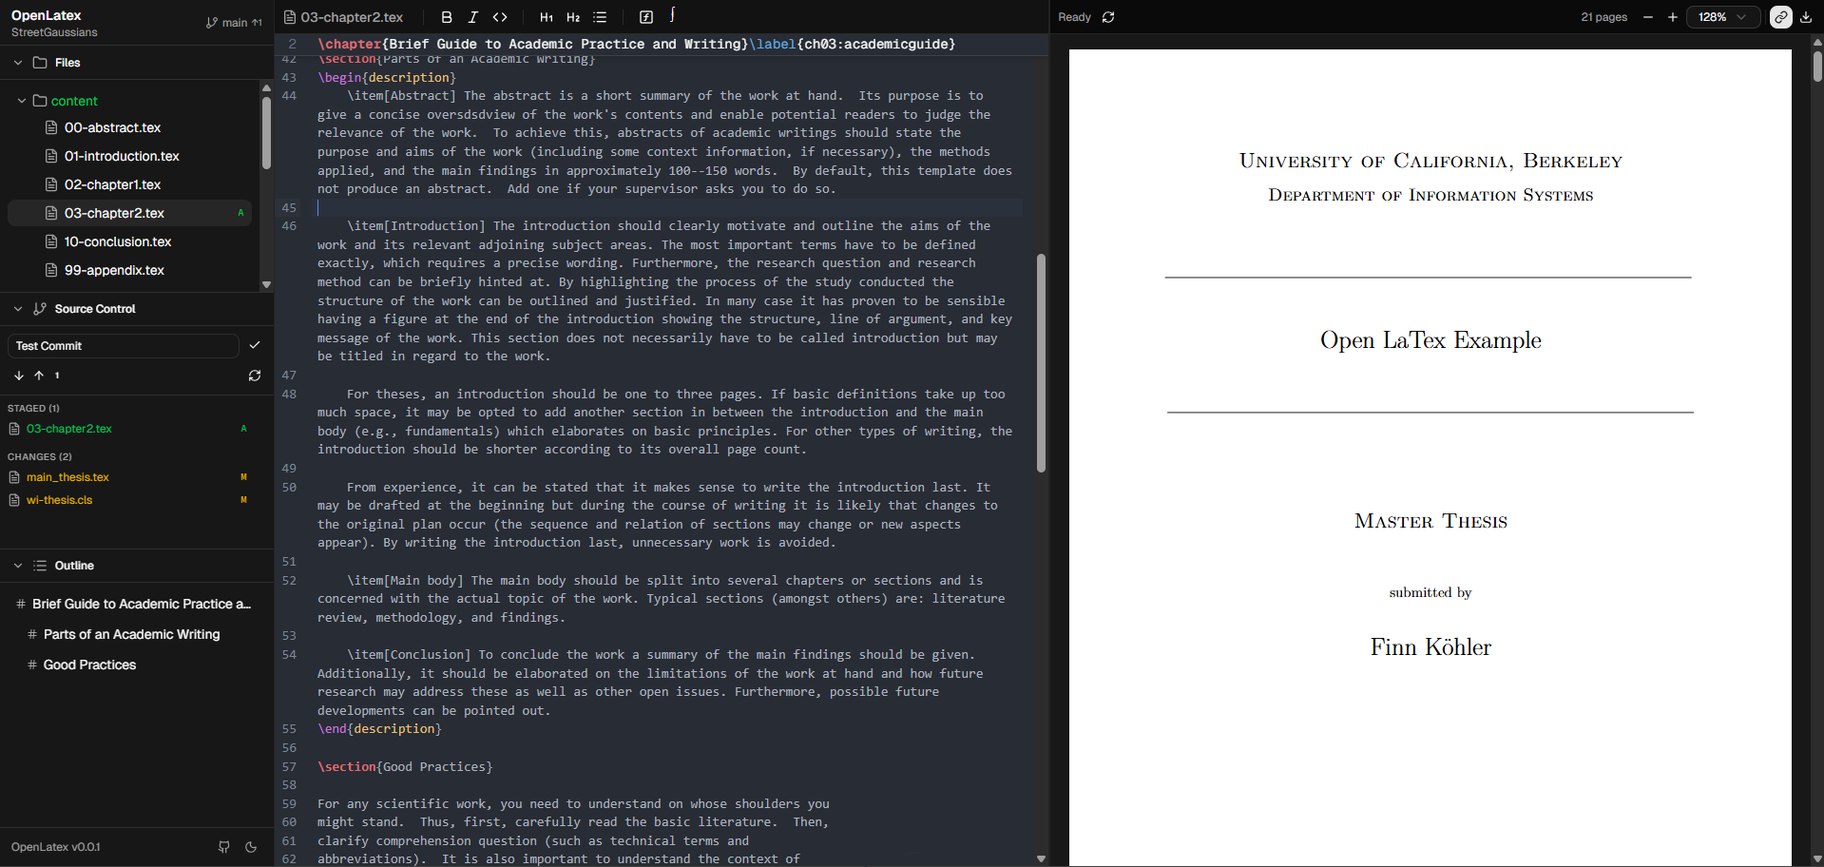
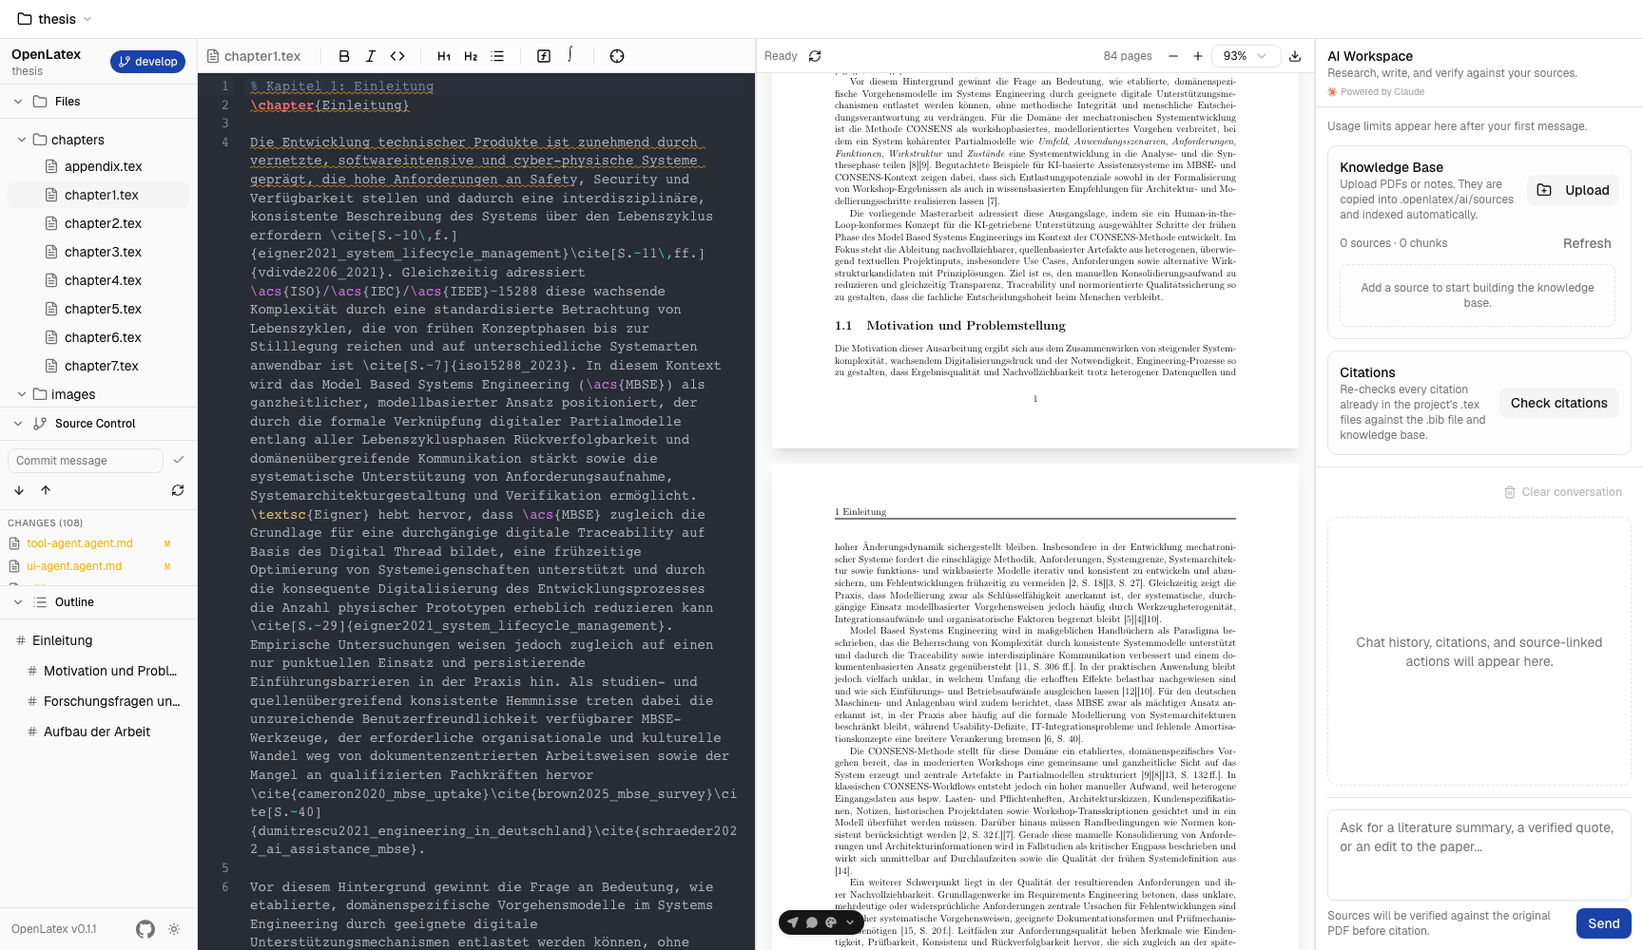
Bring docs up to date with the AI assistant, SyncTeX, and GitHub integration
The README and CONTRIBUTING guide still described the project as it looked
before the AI/RAG system, SyncTeX, GitHub integration, and colored Git UI
were built — several claims (e.g. a manual test checklist file, a
four-store Zustand layout) were no longer true, and the hero screenshot
predated the AI panel entirely. Also swaps in a real screenshot of a
loaded thesis project and replaces apps/web/README.md's leftover
pre-fork "Open Prism" stub.

diff --git a/README.md b/README.md
@@ -1,6 +1,6 @@
 # OpenLaTex
 
-Local, filesystem-backed LaTeX editor with live preview. Edit `.tex` projects on disk, auto-reload when external tools change files, and preview compiled PDFs — all in the browser.
+Local, filesystem-backed LaTeX editor with live preview and a built-in AI research assistant. Edit `.tex` projects on disk, auto-reload when external tools change files, preview compiled PDFs, and search/cite a knowledge base of your own PDFs — all in the browser.
 
 ![OpenLaTex Screenshot](./assets/OpenLatex.png)
 
@@ -9,6 +9,8 @@ Local, filesystem-backed LaTeX editor with live preview. Edit `.tex` projects on
 I wanted a proper LaTeX editor that runs **locally** — no Overleaf, no cloud dependency, full control over my files. The key idea: because the editor works directly on the filesystem with live file watchers, you can use an LLM in VS Code (Copilot, Claude, etc.) to proofread or edit your `.tex` files and see the changes reload instantly in the editor and PDF preview. Meanwhile you can also use the LaTex editor and write your paper directly in the WebUI and it will sync with disk automatically. It turns your local dev environment into a LaTeX writing workflow where AI tools, version control, and the editor all work together seamlessly.
 
 Git integration is built in so you can use the same version control workflow you already know — branch, commit, push, pull — making it straightforward to collaborate on research papers with other researchers, all without leaving your local setup.
+
+On top of that, an AI research assistant (Claude, via the Claude Agent SDK) lives in a fourth panel: it can search a knowledge base built from your own uploaded PDFs, verify every quote against the actual source page before citing it, and write directly into your `.tex` files — with a hard guarantee that it never fabricates a citation.
 
 ## Background
 
@@ -21,7 +23,7 @@ The fork completely rearchitected the project into a **local-first, filesystem-b
 - **Browser storage** — IndexedDB document store replaced with real filesystem operations
 - **Cloud dependencies** — No API keys, no hosted services, no deployment concerns
 
-### What was added
+### What was added (initial rearchitecture)
 - **Filesystem layer** — Chokidar file watcher with SSE streaming, sandboxed path resolution, echo suppression for write-through edits
 - **Disk-backed editing** — Every keystroke debounce-writes to disk (300ms); every external file change auto-reloads the editor buffer with cursor preservation
 - **Git integration** — Branch indicator, file status colors (VS Code-style), Source Control panel with stage/unstage/commit/pull/push
@@ -31,6 +33,9 @@ The fork completely rearchitected the project into a **local-first, filesystem-b
 - **Cached PDF** on startup — skips recompilation if the cached PDF is newer than all source files
 - **Compile-from-disk** — The compile route reads source files from the project directory instead of receiving them from the browser
 - **Security hardening** — Path sandboxing (`resolveInProject`), `execFile` instead of `exec` for Git commands, `.openlatex/` build directory with auto-generated `.gitignore`
+
+### What was added since (AI, reintroduced from scratch)
+AI came back later as a genuinely different feature, not a restoration of what was removed: a local knowledge base built from your own uploaded sources, verified against those sources rather than the model's own memory, running on the Claude Agent SDK instead of the original OpenAI/assistant-ui stack. See **AI Research Assistant** under Features below for the full picture — knowledge base search, citation verification, SyncTeX-style click-to-jump between source and PDF, GitHub sign-in/publish, and a colored Git UI all landed after the initial rearchitecture.
 
 ### What was kept
 - **CodeMirror 6 editor** with LaTeX syntax highlighting and one-dark theme
@@ -52,18 +57,32 @@ The fork completely rearchitected the project into a **local-first, filesystem-b
 - **Live auto-compile** — PDF rebuilds automatically when any source file changes (500ms debounce)
 - **Zoom controls** — 50% to 400% scale, plus increment/decrement buttons
 - **Scroll sync** — Table of Contents clicks scroll the PDF to the matching page via outline map
+- **SyncTeX** — Double-click a spot in the compiled PDF to jump to that exact line in the source; the reverse (source → PDF highlight) is wired up too, with SyncTeX data registered and cached per build
 - **Compile error log** — Collapsible build output panel shows `pdflatex` errors; previous PDF stays visible
 - **Download** — One-click PDF download from the toolbar
 - **Cached PDF** — On startup, loads the last-compiled PDF instantly if it's still fresh
 
+### AI Research Assistant
+A fourth panel powered by Claude (Claude Agent SDK), scoped entirely to your project directory — no cloud document store, everything lives in `.openlatex/ai/`.
+
+- **One continuing conversation per project** — no conversation picker to manage; it just resumes, across page reloads and app restarts, via a persistent Claude Agent SDK session. "Clear conversation" starts a genuinely fresh one when you want it.
+- **Knowledge base** — Upload PDFs, Markdown, or plain text. Each source is chunked, embedded locally (`@huggingface/transformers`, no external embedding API), and combined with a hand-rolled BM25 index for hybrid semantic + keyword search.
+- **Verified metadata, never invented** — Title/author/year are resolved in order of trust: a real match against the [CrossRef](https://www.crossref.org/) bibliographic database, then the PDF's own embedded metadata, then a page-layout heuristic (font size, byline position) — and every field is tagged with exactly how confident that source is, down to the individual field. A heuristic guess can never silently become part of a citation. Metadata can also be corrected by hand from the source list.
+- **Citation safety** — Every claim the assistant makes from a source is checked with `cite()` against the source's actual page text before it's allowed to appear as a citation — including when it writes `\cite[p.~<page>]{key}` directly into your `.tex` file, always with the exact page it just verified.
+- **Citation audit** — A "Check citations" action re-scans every `\cite`/`\citep`/`\citet`/`\parencite`/`\autocite`/`\textcite` already in your `.tex` files and flags anything broken: a missing `.bib` entry, a page beyond the source's real length, a `.bib` entry with no linked source, or a citation missing a page.
+- **Research notes** — The assistant can save its own synthesized understanding back into the knowledge base for later turns to build on — searchable, but never itself citable; every claim still traces back to a fresh `cite()` against a primary source.
+- **Source management** — Search and sort the source list, a "needs review" filter for sources with unverified metadata, multi-select bulk delete, and duplicate-upload detection (exact-hash rejection, near-duplicate-title warning).
+- **Plan usage** — The Current Session (5-hour) and Weekly Limits (7-day) usage cards match the Claude app's own usage view, backed by the Claude Agent SDK's usage API.
+- **No fixed "mode"** — There's no Research/Write/Organize picker; the assistant reads each request and decides whether it's a search, an edit to the `.tex` files, or both.
+
 ### Sidebar
 - **Recursive file tree** — Expandable directories, file icons by type, click to open
 - **Table of Contents** — Parsed from `\part`, `\chapter`, `\section`, `\subsection`, `\subsubsection` in the active file; click to scroll the PDF
-- **Collapsible panels** — Files, Source Control, and Outline panels resize and collapse independently
+- **Collapsible panels** — Files, Source Control, Outline, and AI Workspace panels resize and collapse independently
 
 ### Git Integration
-- **Auto-detection** — Detects if the open project folder is a Git repository on startup
-- **Branch indicator** — Current branch name + ahead/behind badges (`↑2 ↓1`) in the sidebar header
+- **Auto-detection** — Detects if the open project folder is a Git repository on startup; entirely optional — the app works fully without Git, and initializing a repo is an explicit opt-in action
+- **Colored branch indicator** — Current branch name shown as a colored pill (accent color, not plain text), with ahead/behind counts as icon+number badges inside it
 - **File status colors** — VS Code-style decorations in the file tree:
   - Yellow = modified (unstaged), Green = staged, Dark green = untracked, Red = deleted/conflict
   - Single-letter badges: `M`, `A`, `?`, `D`, `C`, `R`
@@ -71,7 +90,14 @@ The fork completely rearchitected the project into a **local-first, filesystem-b
 - **Source Control panel** — Staged Changes, Changes, and Untracked sections with per-file stage/unstage buttons
 - **Commit** — Commit message input with Enter-to-commit
 - **Pull / Push** — One-click buttons (shown when a remote is configured)
+- **Commit history** — A VS Code Timeline-style list of past commits, connected by a colored graph line (same accent as the branch pill); expand a commit to see its changed files and view a diff
 - **Live refresh** — Git status updates on every file change (debounced 1s) and polls every 3s for external git operations (`git reset`, `git stash`, etc.)
+- **GitHub integration** — Sign in via the GitHub CLI (`gh`), publish a local repo straight to a new GitHub repository, and open the current repo on GitHub in one click
+
+### Project Management
+- **Welcome screen** — On first run, browse to an existing project folder or create a brand-new one from scratch (scaffolds a starter `main.tex`)
+- **Project switcher** — Jump between recently-opened projects without restarting the app
+- **Per-project AI workspace** — The knowledge base, conversation, and SyncTeX cache all live under that project's own `.openlatex/` directory, so switching projects switches the whole AI context with it
 
 ### Filesystem Sync
 - **Disk is source of truth** — The editor never holds state that isn't on disk
@@ -81,8 +107,8 @@ The fork completely rearchitected the project into a **local-first, filesystem-b
 - **Reconnect with backoff** — SSE disconnects retry at 1s → 2s → 5s → 5s; tree re-syncs on reconnect
 
 ### General
-- **Dark / Light / System theme** — Cycle with the toggle in the sidebar footer
-- **Resizable panels** — Three-pane layout (sidebar, editor, preview) with drag-to-resize handles
+- **Dark / Light / System theme** — Cycle with the toggle in the sidebar footer, tinted with a single restrained accent color rather than pure grayscale
+- **Resizable panels** — Four-pane layout (sidebar, editor, preview, AI workspace) with drag-to-resize handles
 - **Swap editor ↔ preview** — Hover the divider and click the swap button
 - **Keyboard shortcuts** — `Ctrl+S` compile, `Ctrl+F` find, standard undo/redo
 - **Toast notifications** — Non-intrusive feedback for errors and git actions via Sonner
@@ -103,12 +129,15 @@ cd apps/latex-api && docker build -t latex-api . && docker run -p 3001:3001 late
 # Start the editor (in another terminal)
 pnpm dev:web
 
-# Then open http://localhost:3000 — the welcome screen lets you pick your project folder.
+# Then open http://localhost:3000 — the welcome screen lets you pick an existing
+# project folder or create a new one.
 # (Optional) To bootstrap with an env var instead, copy .env.example and set PROJECT_DIR:
 # cp apps/web/.env.example apps/web/.env.local
 ```
 
-Open [http://localhost:3000](http://localhost:3000). On first run the welcome screen lets you browse to or paste a project folder path — your choice is saved to `~/.openlatex/config.json`. Keep VS Code open on the same project folder — edits in either tool flow to the other via filesystem watching.
+Open [http://localhost:3000](http://localhost:3000). On first run the welcome screen lets you browse to (or create) a project folder — your choice is saved to `~/.openlatex/config.json`. Keep VS Code open on the same project folder — edits in either tool flow to the other via filesystem watching.
+
+The AI panel needs a Claude account authenticated via the Claude Agent SDK (the same auth Claude Code uses) — no separate API key to configure for the editor itself.
 
 ### Environment Variables
 
@@ -123,25 +152,27 @@ Open [http://localhost:3000](http://localhost:3000). On first run the welcome sc
 Browser (Next.js client)
   ├── File Tree ← fs-store (Zustand)
   ├── CodeMirror Editor ← editor-store (Zustand, debounced write-through)
-  ├── PDF Preview ← pdf-store (Zustand)
-  └── Source Control ← git-store (Zustand, polls + event-driven)
+  ├── PDF Preview ← pdf-store (Zustand, SyncTeX highlight/scroll)
+  ├── Source Control ← git-store (Zustand, polls + event-driven)
+  ├── AI Workspace ← ai-store (Zustand, SSE chat stream)
+  └── GitHub account menu ← github-store (Zustand)
         │
         │  fetch() / SSE
         ▼
 Next.js Server (apps/web)
-  ├── /api/fs/list      — Recursive file tree
-  ├── /api/fs/read      — File content (text or base64)
-  ├── /api/fs/write     — Write-through with echo suppression
-  ├── /api/fs/watch     — SSE stream (chokidar)
-  ├── /api/compile      — Gathers sources, proxies to latex-api
-  ├── /api/pdf/cached   — Serves cached PDF if fresh
-  ├── /api/git/info     — Branch, remote, last commit, ahead/behind
-  ├── /api/git/status   — Porcelain file statuses
-  ├── /api/git/stage    — git add
-  ├── /api/git/unstage  — git restore --staged
-  ├── /api/git/commit   — git commit -m
-  ├── /api/git/pull     — git pull
-  └── /api/git/push     — git push
+  ├── /api/fs/*            — List, read, write-through, SSE watch
+  ├── /api/compile         — Gathers sources, proxies to latex-api
+  ├── /api/pdf/cached      — Serves cached PDF if fresh
+  ├── /api/synctex/*       — Register/query SyncTeX mapping for a build
+  ├── /api/git/*           — info, status, stage, unstage, commit, pull, push, log, show
+  ├── /api/gh/*            — GitHub CLI auth status, publish, open-on-GitHub
+  ├── /api/project/*       — current, set, browse, create
+  ├── /api/ai/chat         — SSE chat stream (Claude Agent SDK, persistent session)
+  ├── /api/ai/conversation — Get / clear the project's one conversation
+  ├── /api/ai/sources/*    — Upload, list, edit metadata, bulk-delete knowledge sources
+  ├── /api/ai/search       — Hybrid (semantic + BM25) knowledge-base search
+  ├── /api/ai/citations/*  — Citation audit
+  └── /api/ai/usage        — Claude plan usage (5-hour / weekly limits)
         │
         │  POST /builds/sync
         ▼
@@ -152,8 +183,9 @@ latex-api (apps/latex-api, Hono) — unchanged
 ### Security
 
 - **Path sandboxing** — All filesystem operations validate paths via `resolveInProject()`, rejecting traversal (`..`), absolute paths, null bytes, and symlink escapes
-- **No shell injection** — Git commands use `execFile` (args as array), not `exec`
-- **`.openlatex/` build directory** — Auto-created with `.gitignore` containing `*` so build artifacts stay out of version control
+- **No shell injection** — Git and GitHub CLI commands use `execFile` (args as array), not `exec`
+- **`.openlatex/` build directory** — Auto-created with `.gitignore` containing `*` so build artifacts, the SyncTeX cache, and the AI knowledge base stay out of version control by default
+- **Citation grounding** — The AI agent can only cite a quote it has independently verified against the source's own extracted text; it cannot cite a research note, and a source deleted mid-conversation is explicitly invalidated rather than silently trusted from memory
 
 ## Project Structure
 
@@ -161,17 +193,18 @@ latex-api (apps/latex-api, Hono) — unchanged
 OpenLaTex/
 ├── apps/
 │   ├── web/                    # Next.js 16 frontend + API routes
-│   │   ├── app/api/            # FS, Git, Compile, PDF API routes
-│   │   ├── components/         # UI (sidebar, editor, preview, shadcn/ui)
-│   │   ├── hooks/              # use-fs-startup, use-keyboard-shortcuts
-│   │   ├── lib/fs/             # Sandbox, echo suppression, watcher, clients
-│   │   ├── lib/git/            # Git runner (server), Git client (browser)
-│   │   ├── stores/             # Zustand: fs-store, editor-store, pdf-store, git-store
-│   │   └── styles/             # Tailwind CSS v4
-│   └── latex-api/              # Hono API — spawns pdflatex (unchanged from fork)
-├── docs/                       # Design specs, plans, manual test plan
-├── biome.json                  # Biome linter
-└── turbo.json                  # Turborepo config
+│   │   ├── app/api/            # FS, Git, GitHub, Compile, PDF, SyncTeX, Project, AI routes
+│   │   ├── components/         # UI (sidebar, editor, preview, ai, shadcn/ui)
+│   │   ├── hooks/               # use-fs-startup, use-keyboard-shortcuts, use-current-project
+│   │   ├── lib/fs/              # Sandbox, echo suppression, watcher, clients
+│   │   ├── lib/git/             # Git runner (server), Git client (browser)
+│   │   ├── lib/ai/              # Knowledge base, CrossRef lookup, citation audit, chat agent
+│   │   ├── stores/              # Zustand: fs, editor, pdf, git, ai, github
+│   │   └── styles/              # Tailwind CSS v4
+│   └── latex-api/               # Hono API — spawns pdflatex (unchanged from fork)
+├── docs/                        # Design specs and plans
+├── biome.json                   # Biome linter
+└── turbo.json                   # Turborepo config
 ```
 
 ## Tech Stack
@@ -180,10 +213,11 @@ OpenLaTex/
 |-------|-----------|
 | Framework | Next.js 16, React 19 |
 | Editor | CodeMirror 6, codemirror-lang-latex |
-| PDF | react-pdf, pdfjs-dist |
+| PDF | react-pdf, pdfjs-dist (also used for SyncTeX page/position mapping) |
 | State | Zustand 5 |
 | UI | shadcn/ui (Radix UI), Tailwind CSS v4, Lucide icons |
 | File watching | chokidar 4 |
+| AI | Claude Agent SDK (`@anthropic-ai/claude-agent-sdk`), local embeddings via `@huggingface/transformers`, hand-rolled BM25, CrossRef REST API for metadata verification |
 | Compiler backend | Hono, pdflatex / xelatex / lualatex |
 | Build | Turborepo, pnpm workspaces, TypeScript (strict) |
 | Testing | Vitest |

diff --git a/CONTRIBUTING.md b/CONTRIBUTING.md
@@ -68,10 +68,13 @@ Open [http://localhost:3000](http://localhost:3000).
 apps/web/
 ├── app/api/              # Next.js API routes
 │   ├── fs/               #   File operations (list, read, write, watch SSE)
-│   ├── git/              #   Git operations (info, status, stage, unstage, commit, pull, push)
+│   ├── git/              #   Git operations (info, status, stage, unstage, commit, pull, push, log, show)
+│   ├── gh/               #   GitHub CLI integration (auth status, publish, open-on-GitHub)
 │   ├── compile/          #   LaTeX compilation (reads from disk, proxies to latex-api)
 │   ├── pdf/cached/       #   Serves cached PDF if still fresh
-│   └── project/          #   Project picker API (current, set, browse)
+│   ├── synctex/          #   Register/query SyncTeX mapping for a build
+│   ├── project/          #   Project picker API (current, set, browse, create)
+│   └── ai/               #   Chat (SSE), conversation, sources, search, citations, usage
 ├── components/
 │   ├── ui/               #   shadcn/ui primitives (button, dialog, tooltip, etc.)
 │   ├── project/          #     Welcome screen, directory browser, project switcher
@@ -83,8 +86,9 @@ apps/web/
 ├── lib/
 │   ├── fs/               #   Sandbox, echo suppression, watcher, project-dir, clients
 │   ├── git/              #   Git runner (server-side execFile), Git client (browser fetch)
+│   ├── ai/               #   Knowledge base, CrossRef lookup, citation audit, chat agent
 │   └── project/          #   Config module (~/openlatex/config.json), path utils
-├── stores/               #   Zustand stores: fs, editor, pdf, git
+├── stores/               #   Zustand stores: fs, editor, pdf, git, ai, github
 └── styles/               #   Tailwind CSS v4 globals
 ```
 
@@ -94,7 +98,8 @@ apps/web/
 - **Path sandboxing.** Every filesystem route validates paths via `resolveInProject()` from `lib/fs/sandbox.ts`. Always use it for any new FS route.
 - **Echo suppression.** When the server writes a file, it records the write so the chokidar watcher can drop the resulting event. See `lib/fs/echo-suppression.ts`.
 - **No shell injection.** Git commands use `execFile` (args as array). Never use `exec` or template strings for command construction.
-- **Zustand for state.** Four stores: `fs-store` (file tree), `editor-store` (active file + buffer), `pdf-store` (PDF bytes + compile status), `git-store` (branch, statuses, actions).
+- **Zustand for state.** Six stores: `fs-store` (file tree), `editor-store` (active file + buffer), `pdf-store` (PDF bytes + compile status), `git-store` (branch, statuses, actions), `ai-store` (conversation, sources, plan usage), `github-store` (auth state).
+- **Citations are never trusted from memory.** The AI agent's `cite()` tool re-verifies every quote against a source's actual extracted text at the moment of citing — never from what the model recalls saying earlier. Keep this true for any new AI tool that touches citations.
 
 ### Testing
 
@@ -107,8 +112,12 @@ pnpm test:watch    # Watch mode
 Unit tests cover the security-critical modules:
 - `lib/fs/sandbox.test.ts` — Path resolution and traversal rejection
 - `lib/fs/echo-suppression.test.ts` — Write-echo tracking with fake timers
+- `lib/ai/knowledge-base.test.ts` — Chunking, embedding search, citation verification
+- `lib/ai/crossref.test.ts` — Bibliographic metadata lookup and trust ordering
+- `lib/ai/citation-audit.test.ts` — Detecting broken/missing/unlinked citations
 
-A manual test checklist lives at `docs/manual-test-plan.md`.
+There's no standing manual test checklist file — UI/functional changes are
+verified live against a running instance as part of development instead.
 
 ## Code Style
 

diff --git a/apps/web/README.md b/apps/web/README.md
@@ -1,1 +1,31 @@
-# Open Prism
+# OpenLaTex Web
+
+The Next.js 16 frontend and API routes for OpenLaTex — the editor, PDF preview, AI research assistant, and Git UI. See the [root README](../../README.md) for the full feature list, architecture diagram, and quick start, and [CONTRIBUTING.md](../../CONTRIBUTING.md) for local development setup.
+
+## Local Development
+
+```bash
+# From the workspace root
+pnpm install
+pnpm dev:web
+```
+
+Requires the `latex-api` service running for compilation (see [apps/latex-api](../latex-api)).
+
+## Structure
+
+```
+app/api/     # File, Git, GitHub, Compile, PDF, SyncTeX, Project, and AI routes
+components/  # UI: sidebar, editor, preview, AI panel, shadcn/ui primitives
+hooks/       # use-fs-startup, use-keyboard-shortcuts, use-current-project
+lib/         # fs (sandbox/watcher), git, ai (knowledge base, agent), project
+stores/      # Zustand: fs, editor, pdf, git, ai, github
+styles/      # Tailwind CSS v4
+```
+
+## Testing
+
+```bash
+pnpm test          # Run all tests once
+pnpm test:watch    # Watch mode
+```
